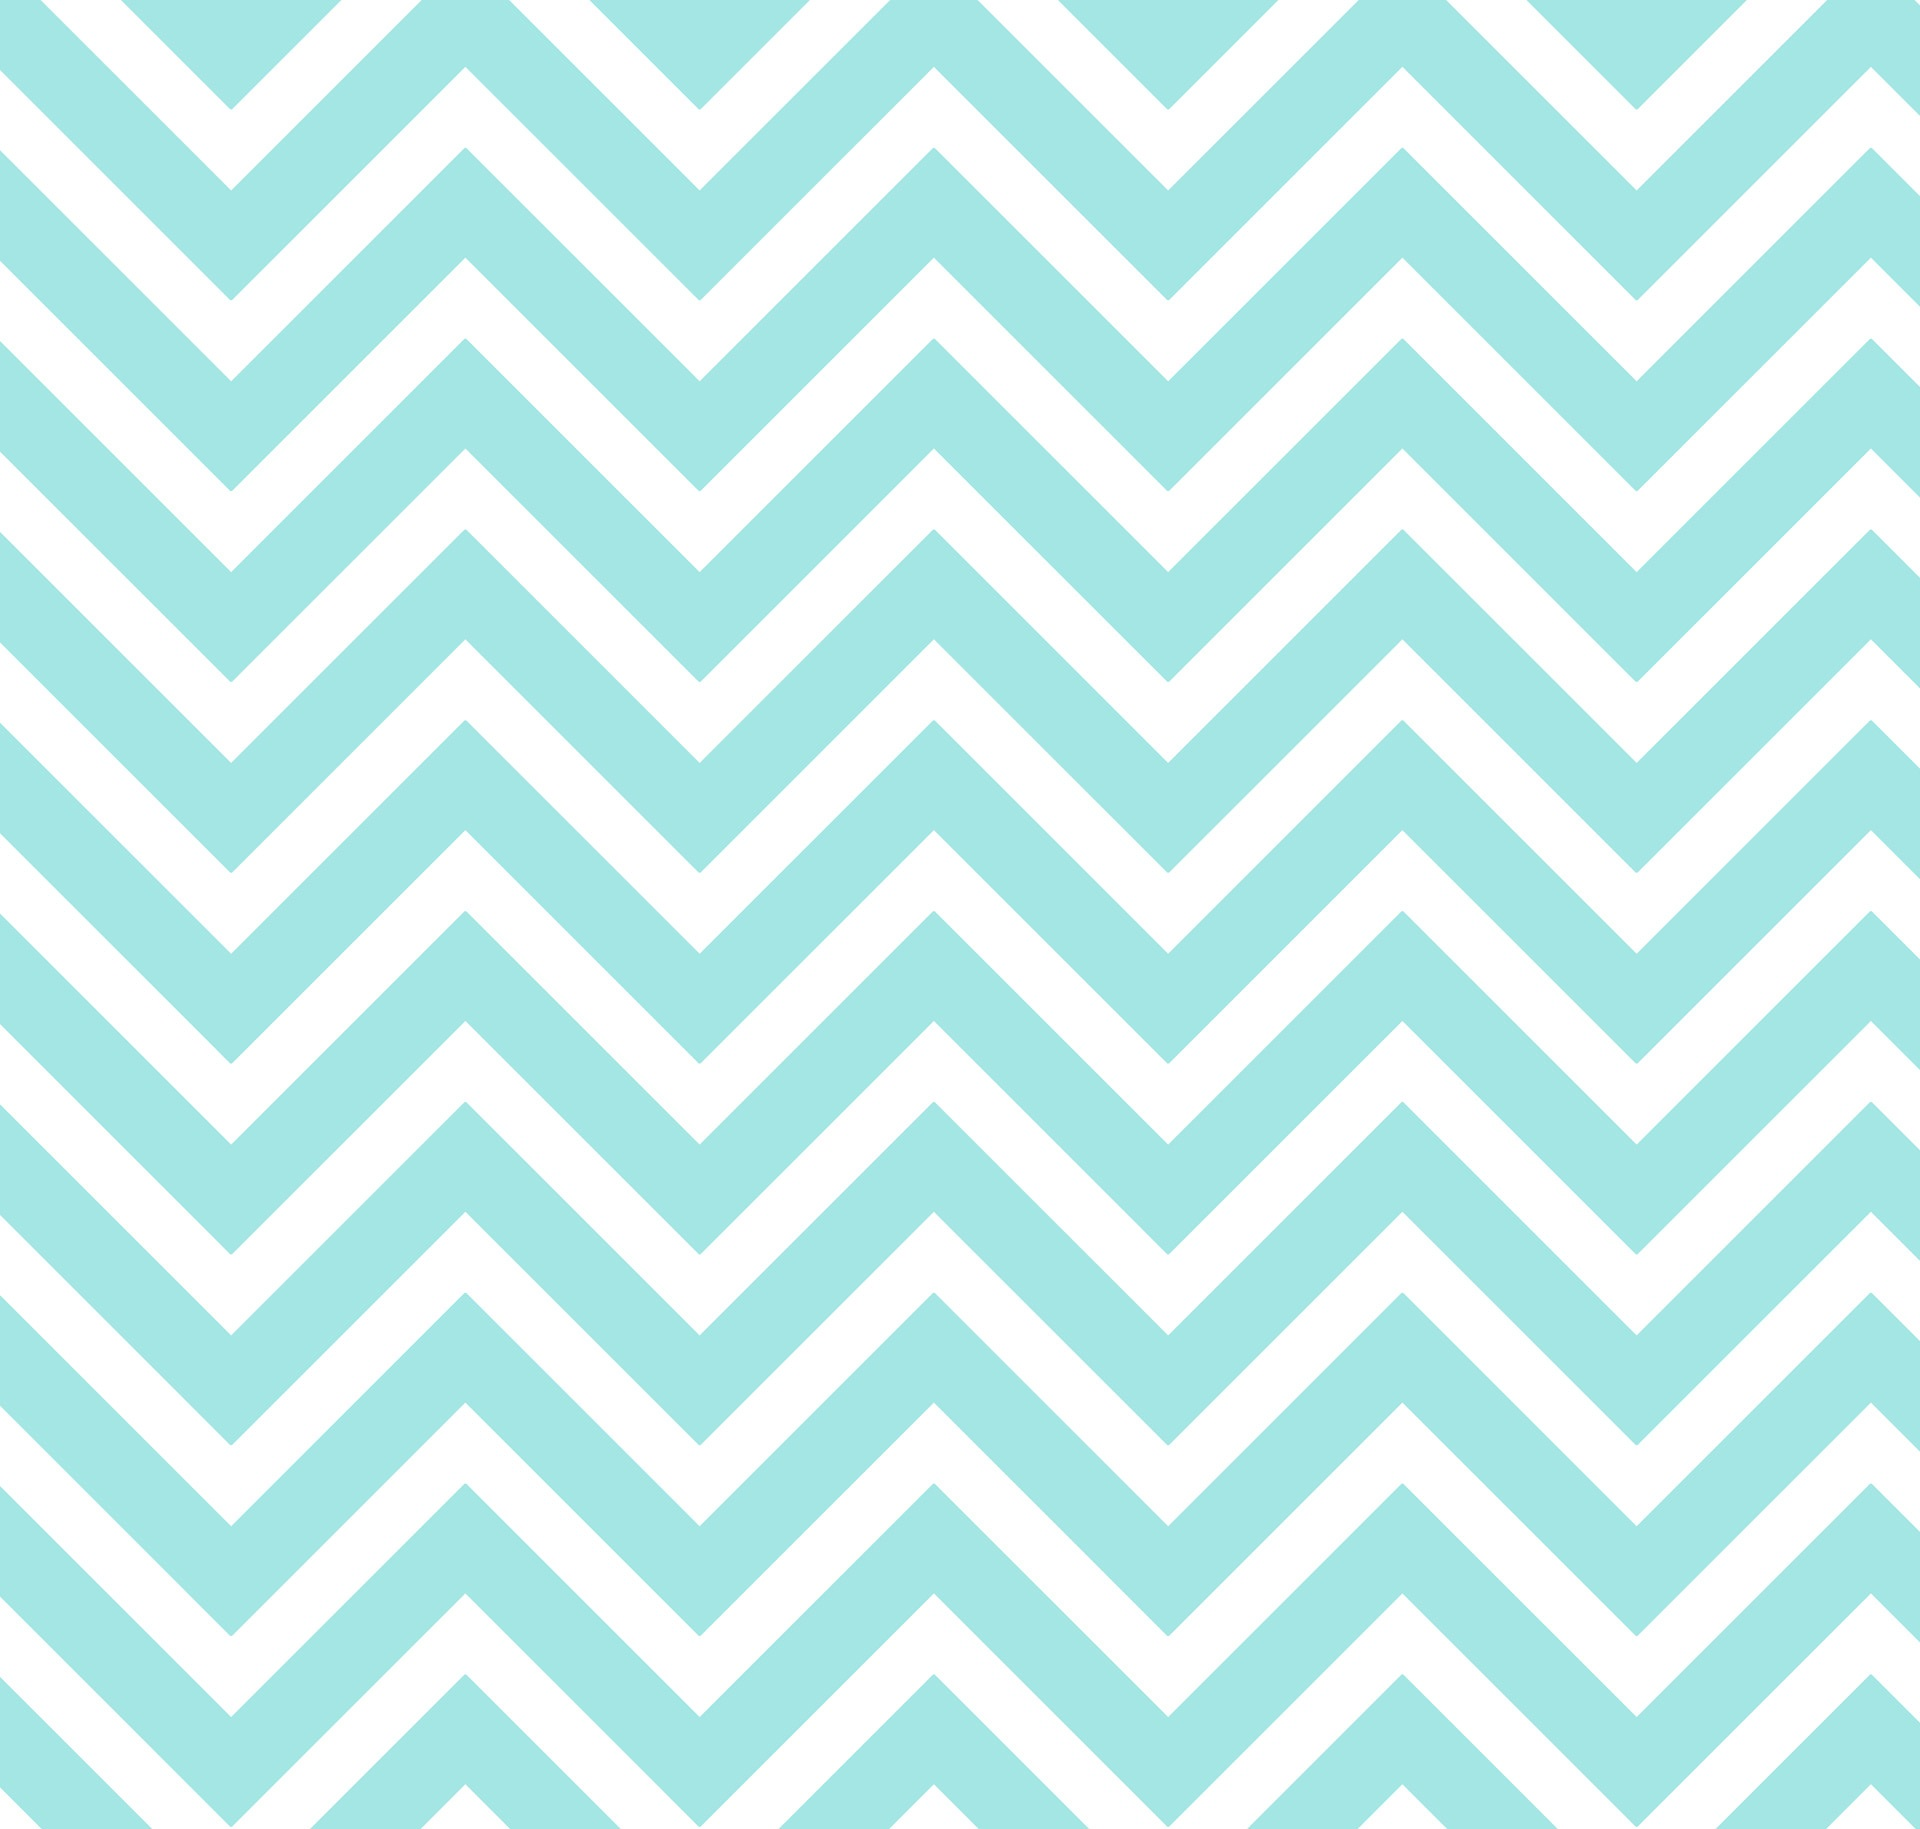
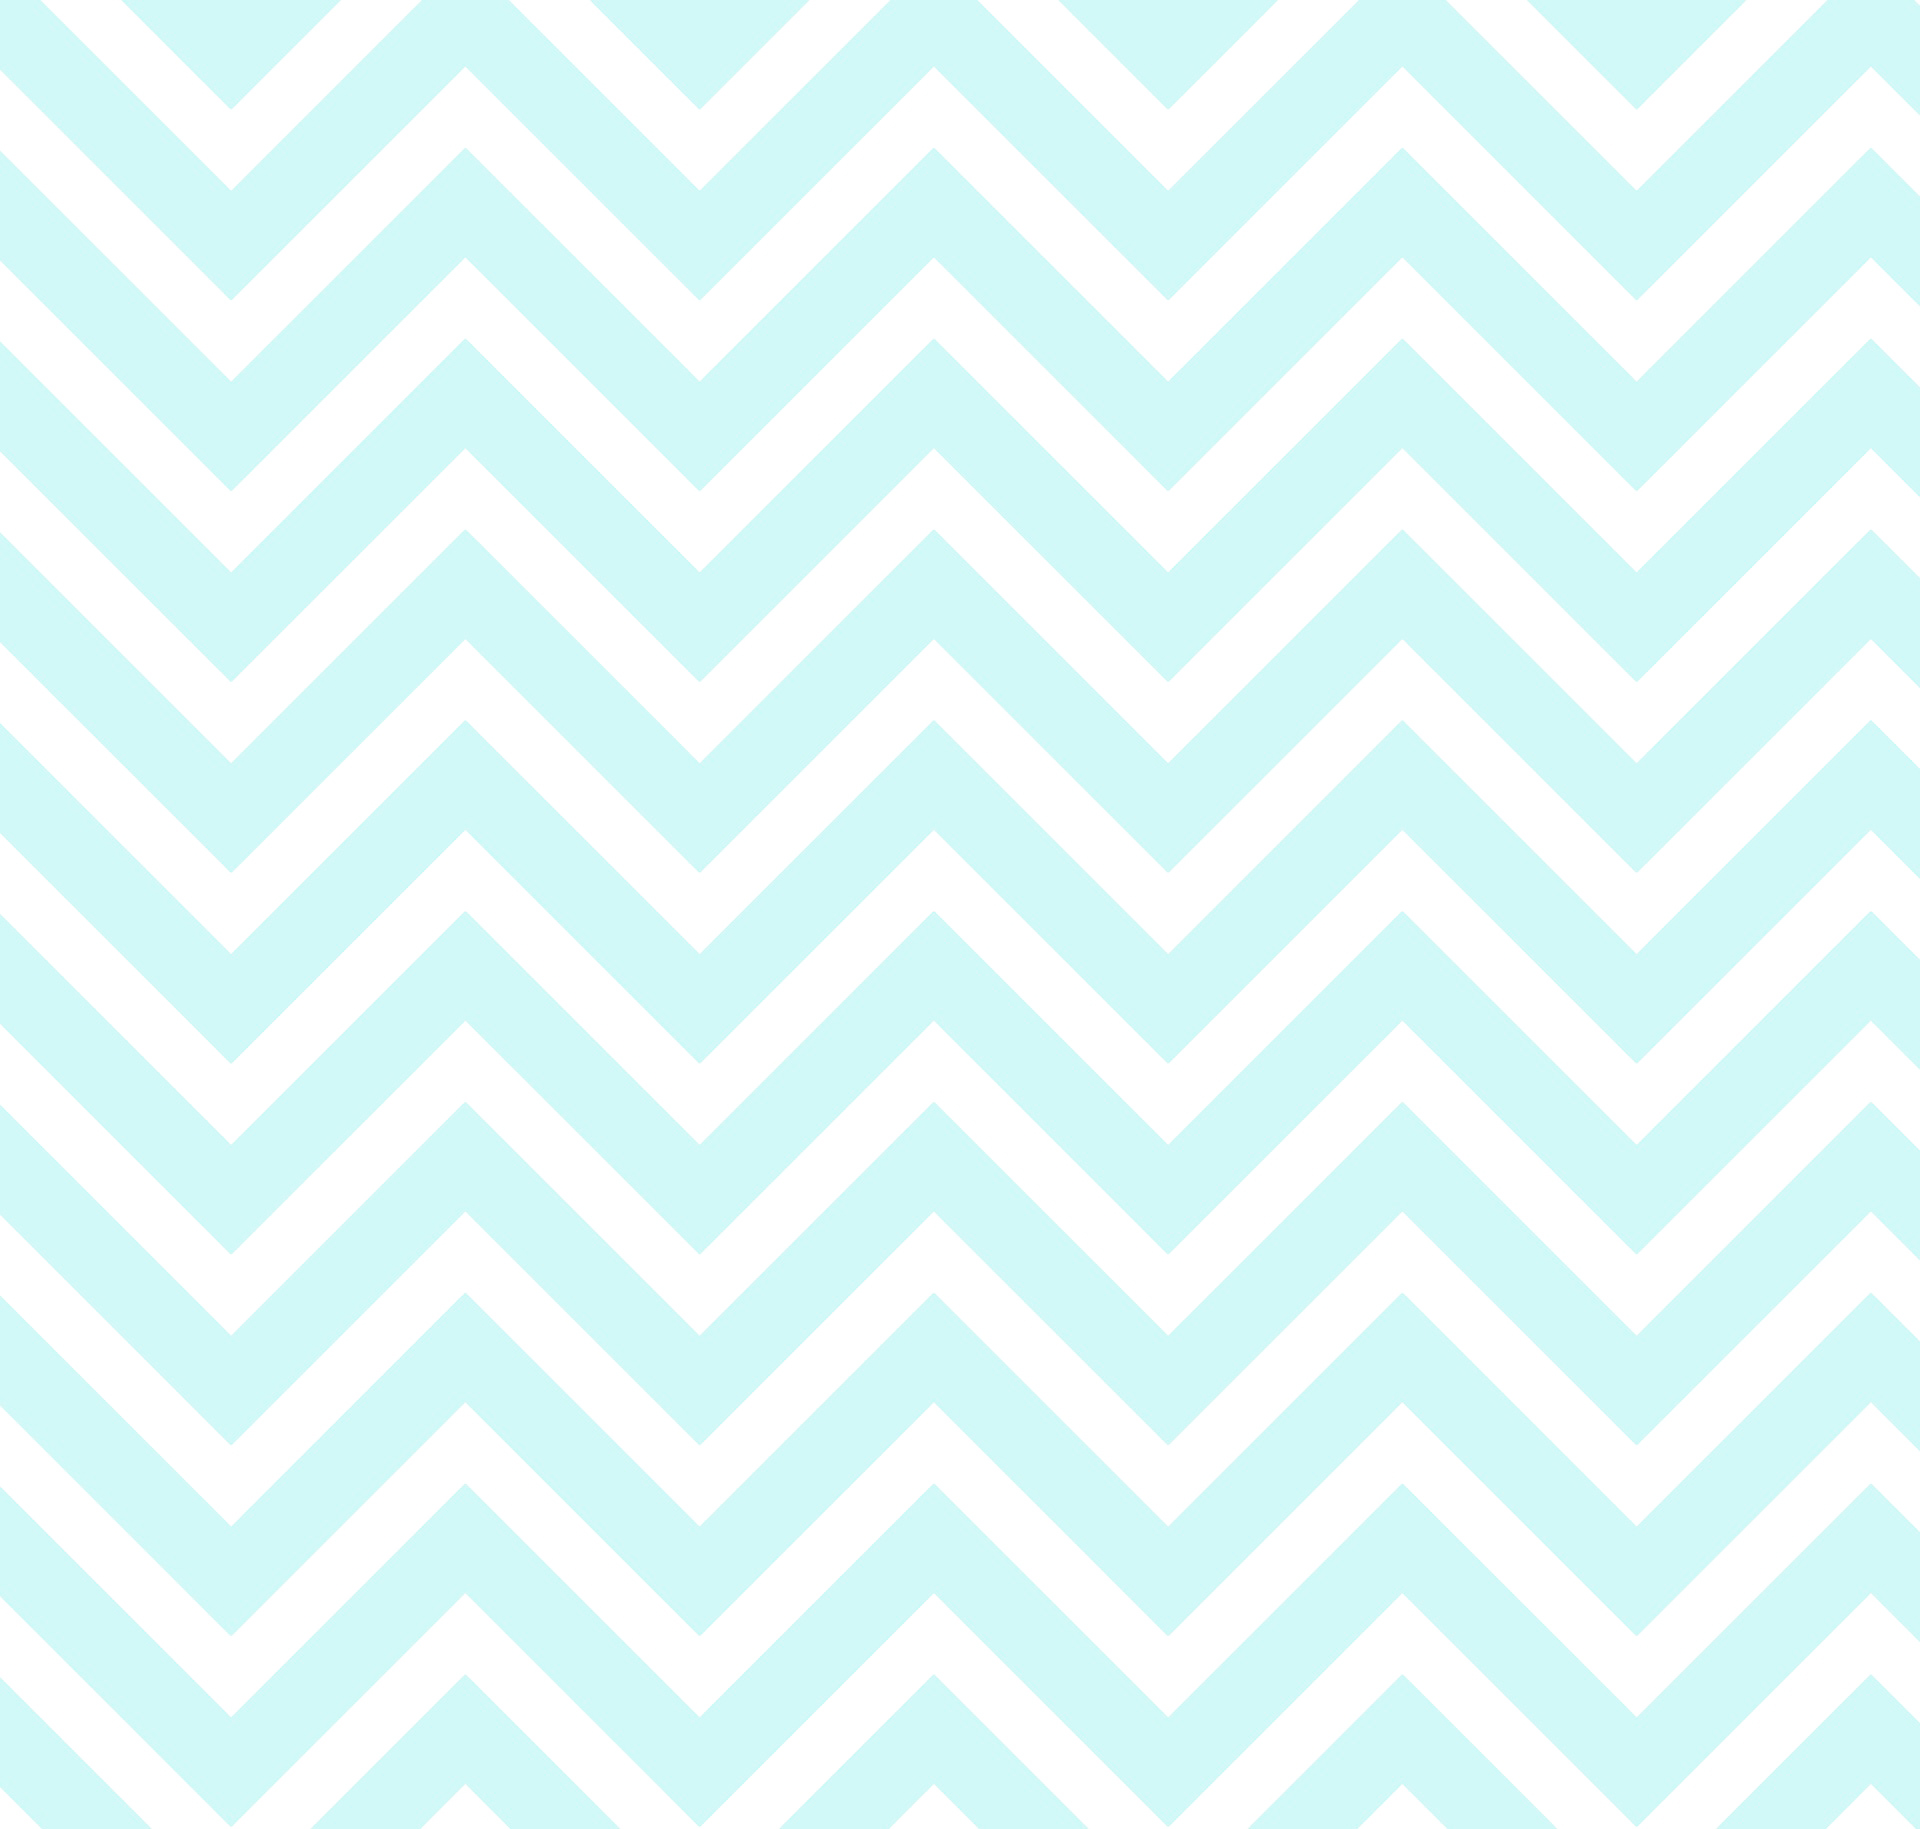
Progress on About page

diff --git a/src/style.css b/src/style.css
@@ -1,6 +1,6 @@
 html,
 .App {
-    background-color: rgb(164, 230, 228);
+    background-color: rgb(179, 252, 250);
     width: 100vw;
     height: 100%;
     margin: 0;
@@ -24,9 +24,22 @@ html,
     border: 10px double rgb(248, 229, 144);
     border-radius: 2%;
     background-image: url(/src/components/assets/img/zigzag-937583.jpg);
-    background-color: rgb(164, 230, 228);
+    background-color: rgb(180, 249, 248);
     color: pink;
     height: 80vh;
+}
+
+.about-container {
+    display: flex;
+    justify-content: flex-start;
+}
+
+.about-container img {
+    width: 40%;
+    margin: 3%;
+    border: #fff solid 10px;
+    border-bottom: 70px #fff solid;
+    transform: rotate(-5deg);
 }
 
 .header-container {
@@ -59,7 +72,7 @@ html,
     width: 100vw;
     padding: 0 1%;
     justify-content: space-between;
-    background-color: rgb(164, 230, 228);
+    background-color: rgb(179, 252, 250);
     position: absolute;
     bottom: 0;
 }

diff --git a/src/components/pages/About.js b/src/components/pages/About.js
@@ -1,14 +1,20 @@
 import React from 'react';
 import { Jumbotron, Container, Button } from 'reactstrap';
 
-
-export default function Home() {
+import img from '../assets/img/about.jpg'
+export default function about() {
 
     return (
         <div>
             <Container fluid className="gen-container">
-                {/*<h2>Michal Front</h2>
-                <h3>Full-Stack Web Developer</h3>*/}
+                <div className="about-container">
+                    <img src={img} alt='mfront'/>
+                    <div className="about-text">
+                        <h2>Hi! I'm Michal Front</h2>
+                        <h5>I'm a full stack web developer from Berlin, Germany.</h5>
+                        <p></p>
+                    </div>
+                </div>
             </Container>
         </div>
     )
